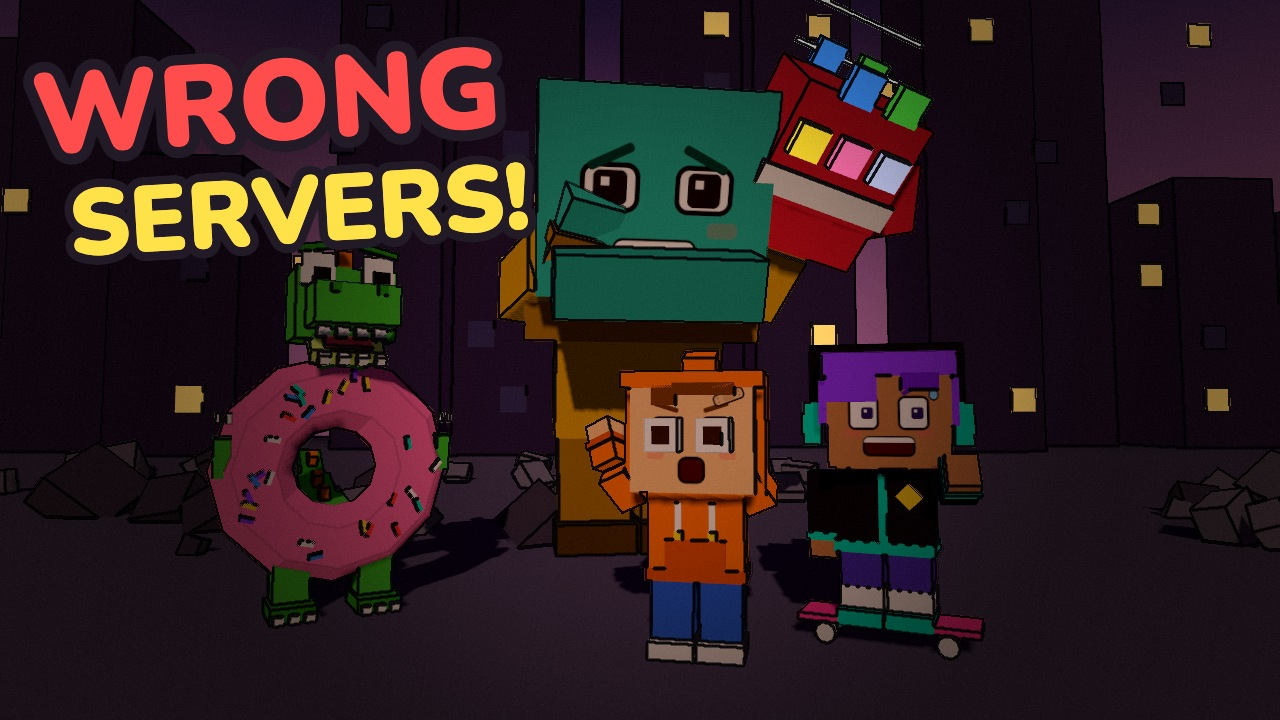
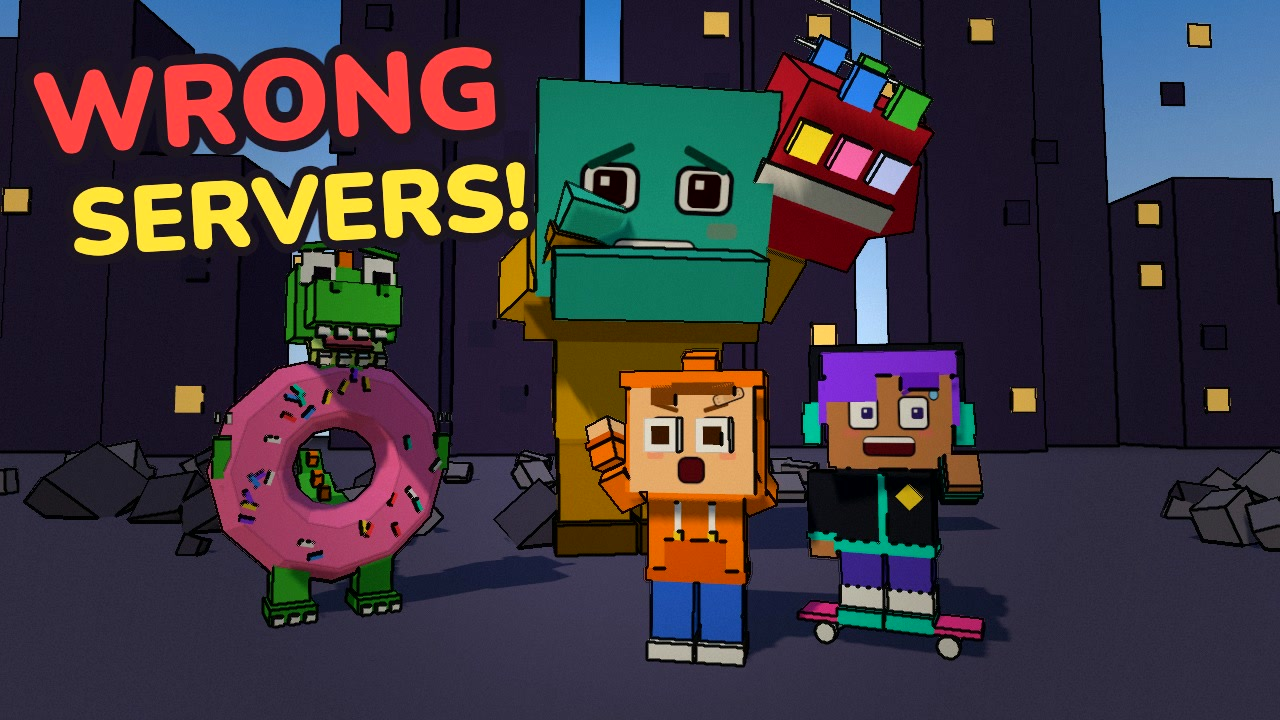
Long 2 thumbnail: brighter characters (day light) so they read as bright as the title

diff --git a/videos/stories/blocky-world/brand/thumb_story.js b/videos/stories/blocky-world/brand/thumb_story.js
@@ -20,5 +20,5 @@ export function frame(f, E) {
     textO("WRONG", 400, 170, 170, { col: "#ff4d4d", rot: -0.06 })(g, w, h);
     textO("SERVERS!", 450, 330, 140, { col: "#ffe14a", rot: -0.06 })(g, w, h);
   };
-  return { cam: { pos: [600.2, 2.0, 8.8], look: [600.6, 2.6, 0], fov: 50 }, light: ["dramatic", "night", 0.25], dof: { focus: 7, amount: 0 }, actors: [], fx: [], caption: false, focusPt: [601, 1.5, 2], overlay: ov };
+  return { cam: { pos: [600.2, 2.0, 8.8], look: [600.6, 2.6, 0], fov: 50 }, light: "day", dof: { focus: 7, amount: 0 }, actors: [], fx: [], caption: false, focusPt: [601, 1.5, 2], overlay: ov };
 }
